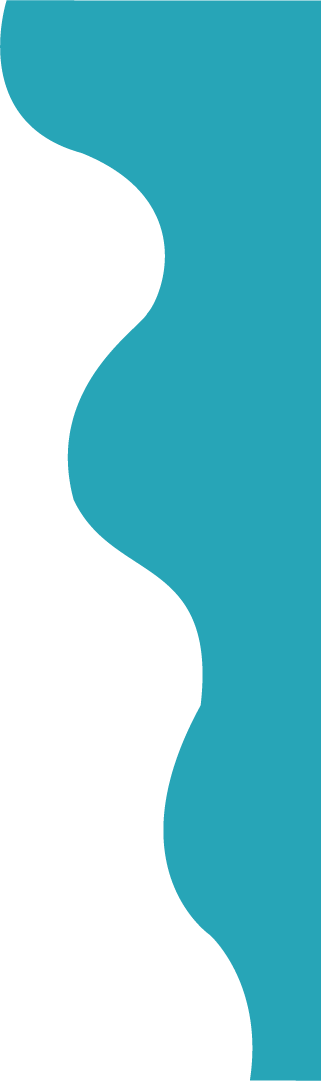
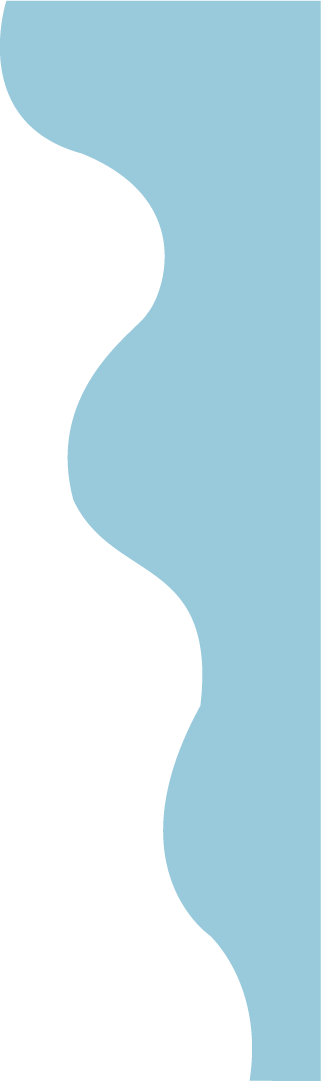
Fixed styles
background color, text font, alignment

diff --git a/assets/css/app.css b/assets/css/app.css
@@ -297,9 +297,11 @@ h1 {
     display: inline-block;
     position: relative;
     background-color: white;
-    background-image: url("../img/border.svg");
+    background-image: url("../img/testimonialsbg.svg");
     background-repeat: no-repeat;
     background-size: cover;
+
+    height: 240px;
 
 }
 
@@ -348,9 +350,12 @@ main .volunteer {
     background-image: url('./../img/volunteerbg.png');
     background-repeat: no-repeat;
     background-size: contain;
+    /* text-align: center; */
+    text-align: left;
+}
+.volunteer h1 {
     text-align: center;
 }
-
 .volunteer .grid-container {
     width: 100%;
     max-width: 78rem;
@@ -372,7 +377,7 @@ main .volunteer {
 }
 
 .volunteer .volunteerContainer .volunteerTextSection p {
-    font-size: 23px;
+    font-size: 20px;
     margin-bottom: 60px;
 
 }
@@ -384,7 +389,8 @@ main .volunteer {
 }
 
 .volunteer .volunteerContainer .volunteerVideo {
-    margin-top: 220px;
+    margin-top: 45px;
+    text-align: center;
 
 }
 
@@ -460,7 +466,7 @@ main .empowerment h1 {
 
 
 .empowerment .listResult {
-    background-color: #99cadc;
+    background-color: #d6e7ee;
     padding: 36px 20px;
     cursor: pointer;
     text-align: left;
@@ -509,10 +515,19 @@ footer {
     flex-direction: row;
     justify-content: center;
     align-content: center;
+    margin-top: 100px;
 }
 .partnerLogos img {
     height: 100px;
     /* height: auto; */
+}
+
+.footerLink {
+    margin: 0 auto;
+    display: block;
+    width: 100%;
+    text-align: center;
+    text-decoration-line: underline;
 }
 
 

diff --git a/front-page.php b/front-page.php
@@ -380,13 +380,14 @@ get_header();
                 <?php
 					$footer_header = $footer['heading'];
 					$footer_paragraph = $footer['paragraph'];
-					$footer_link = $footer['link'];
+					$footer_link = $footer['link']["title"];
 					$footer_partner_one = $footer['partner_logo_one'];
 					$footer_partner_two = $footer['partner_logo_two'];
 					$footer_partner_three = $footer['partner_logo_three'];
 					$footer_partner_four = $footer['partner_logo_four'];
 					// var_dump($footer_header);
-					// var_dump($footer_content);
+                    // var_dump($footer_content);
+                    // var_dump($footer_link);
 					?>
                 <p class="footerHeader">
                     <?php echo $footer_header; ?>
@@ -394,7 +395,7 @@ get_header();
                 <p class="footerParagraph">
                     <?php echo $footer_paragraph; ?>
                 </p>
-                <a>
+                <a class="footerLink">
                     <?php echo $footer_link; ?> </a>
                 <div class="partnerLogos">
                     <img src='<?php echo $footer_partner_one ?>' />
